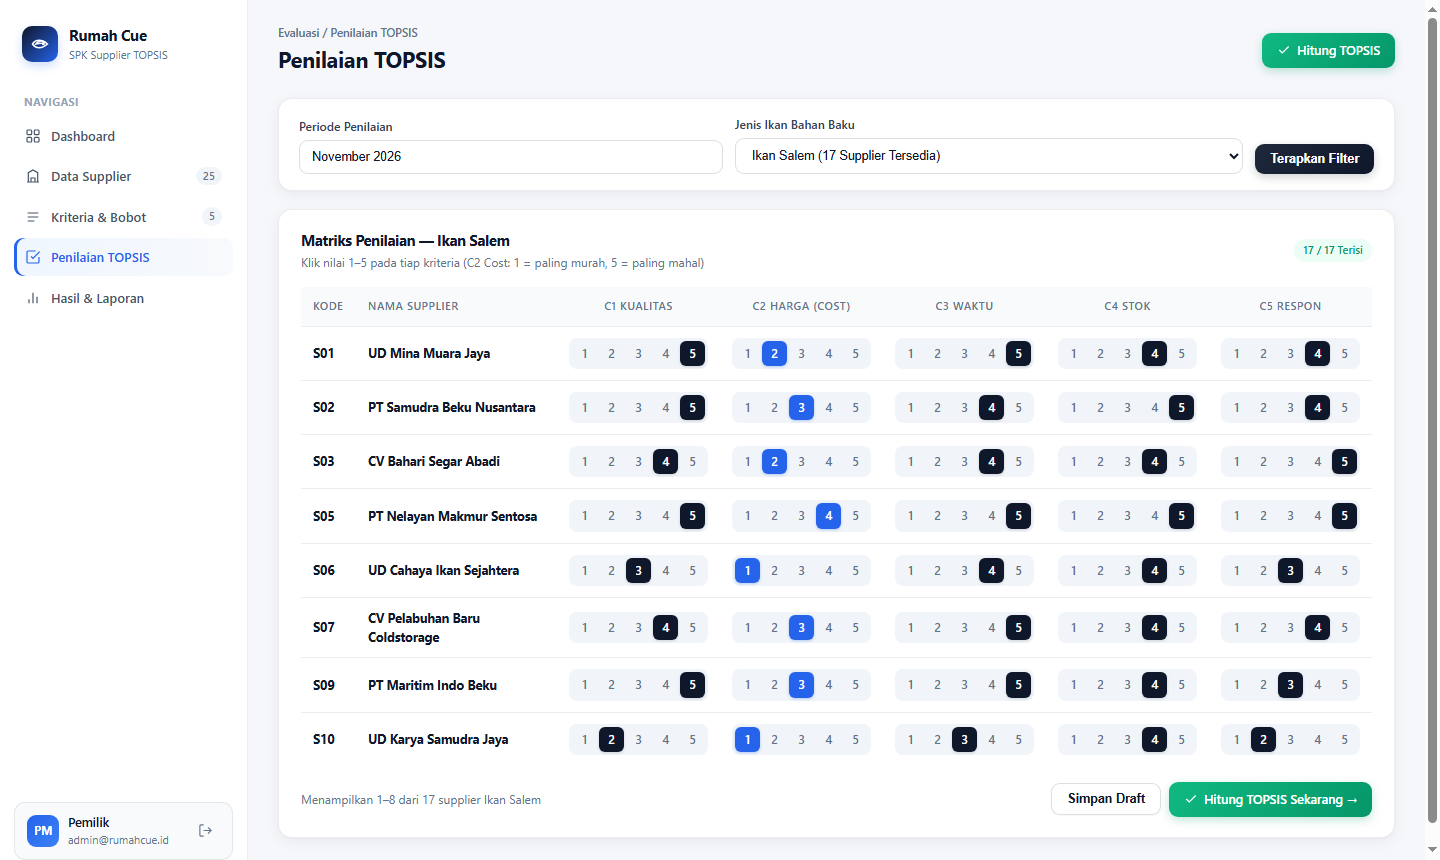
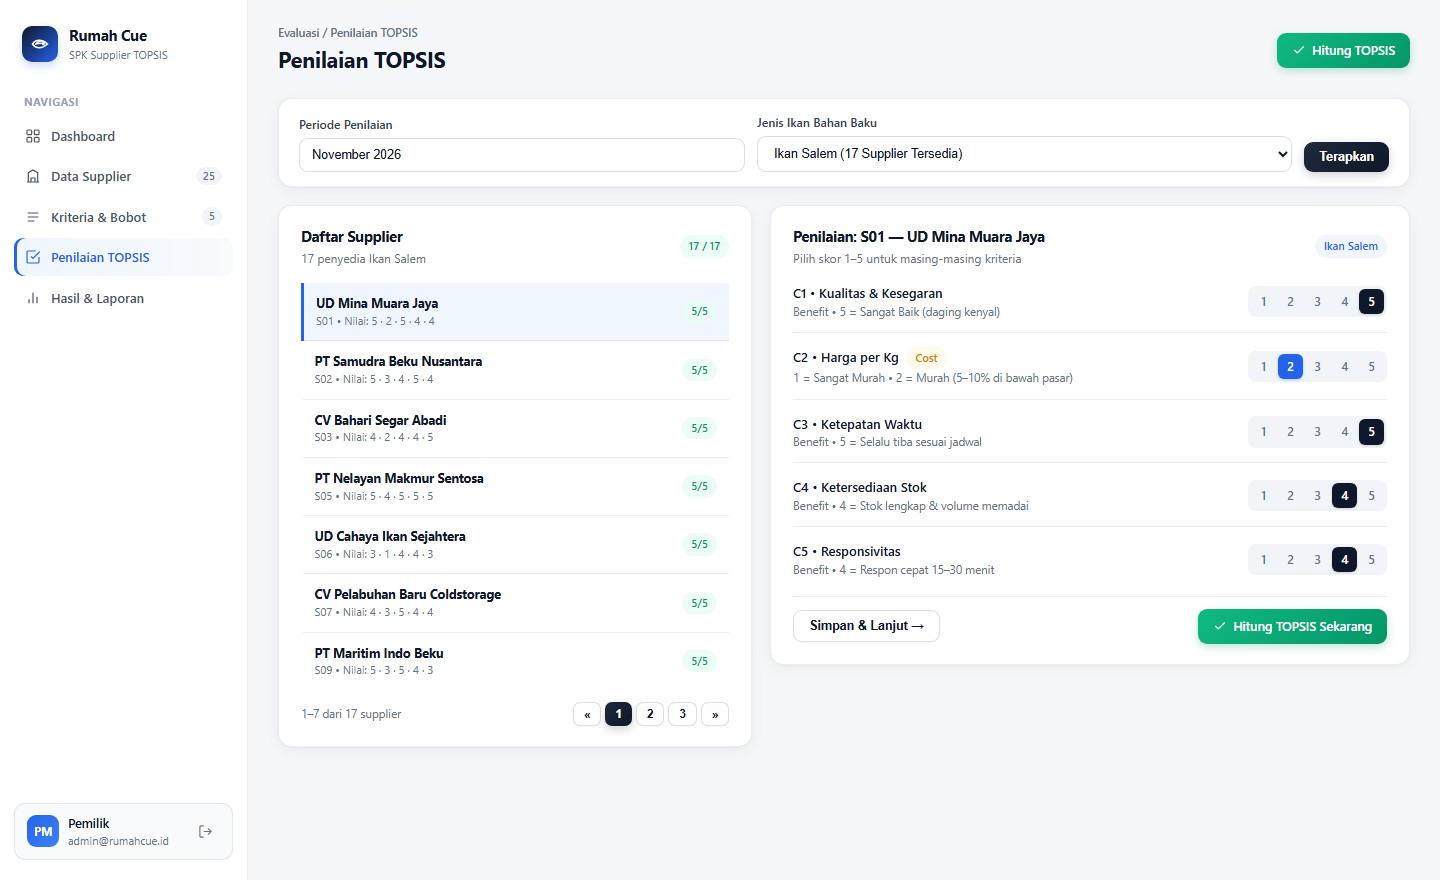
Phase 1: sederhanakan halaman penilaian TOPSIS menjadi layout master-detail modern

diff --git a/wireframes/html/05_penilaian_topsis.html b/wireframes/html/05_penilaian_topsis.html
@@ -288,7 +288,7 @@ tr:last-child td { border-bottom: none; }
       <div class="actions"><a href="06_hasil_laporan.html" class="btn btn-emerald"><svg width="14" height="14" fill="none" stroke="currentColor" stroke-width="2.2" viewBox="0 0 24 24"><path d="M20 6L9 17l-5-5"/></svg> Hitung TOPSIS</a></div>
     </div>
     
-<div class="card" style="padding:16px 20px;">
+<div class="card" style="padding:14px 20px;">
   <div style="display:grid; grid-template-columns:1fr 1.2fr auto; gap:12px; align-items:end;">
     <div>
       <label class="label">Periode Penilaian</label>
@@ -299,99 +299,103 @@ tr:last-child td { border-bottom: none; }
       <select class="select"><option selected>Ikan Salem (17 Supplier Tersedia)</option><option>Ikan Cakalang (15 Supplier)</option><option>Ikan Layang (15 Supplier)</option></select>
     </div>
     <div>
-      <button class="btn btn-dark">Terapkan Filter</button>
+      <button class="btn btn-dark">Terapkan</button>
     </div>
   </div>
 </div>
 
-<div class="card">
-  <div class="card-head">
-    <div><div class="card-title">Matriks Penilaian — Ikan Salem</div><div class="card-sub">Klik nilai 1–5 pada tiap kriteria (C2 Cost: 1 = paling murah, 5 = paling mahal)</div></div>
-    <span class="pill pill-green">17 / 17 Terisi</span>
-  </div>
-  <table>
-    <thead>
-      <tr>
-        <th style="width:55px;">Kode</th>
-        <th>Nama Supplier</th>
-        <th class="tc">C1 Kualitas</th>
-        <th class="tc">C2 Harga (Cost)</th>
-        <th class="tc">C3 Waktu</th>
-        <th class="tc">C4 Stok</th>
-        <th class="tc">C5 Respon</th>
-      </tr>
-    </thead>
-    <tbody><tr>
-      <td><strong>S01</strong></td>
-      <td><strong>UD Mina Muara Jaya</strong></td>
-      <td class="tc"><div class="seg-group"><span class="seg-btn ">1</span><span class="seg-btn ">2</span><span class="seg-btn ">3</span><span class="seg-btn ">4</span><span class="seg-btn on">5</span></div></td>
-      <td class="tc"><div class="seg-group"><span class="seg-btn ">1</span><span class="seg-btn on-blue">2</span><span class="seg-btn ">3</span><span class="seg-btn ">4</span><span class="seg-btn ">5</span></div></td>
-      <td class="tc"><div class="seg-group"><span class="seg-btn ">1</span><span class="seg-btn ">2</span><span class="seg-btn ">3</span><span class="seg-btn ">4</span><span class="seg-btn on">5</span></div></td>
-      <td class="tc"><div class="seg-group"><span class="seg-btn ">1</span><span class="seg-btn ">2</span><span class="seg-btn ">3</span><span class="seg-btn on">4</span><span class="seg-btn ">5</span></div></td>
-      <td class="tc"><div class="seg-group"><span class="seg-btn ">1</span><span class="seg-btn ">2</span><span class="seg-btn ">3</span><span class="seg-btn on">4</span><span class="seg-btn ">5</span></div></td>
-    </tr><tr>
-      <td><strong>S02</strong></td>
-      <td><strong>PT Samudra Beku Nusantara</strong></td>
-      <td class="tc"><div class="seg-group"><span class="seg-btn ">1</span><span class="seg-btn ">2</span><span class="seg-btn ">3</span><span class="seg-btn ">4</span><span class="seg-btn on">5</span></div></td>
-      <td class="tc"><div class="seg-group"><span class="seg-btn ">1</span><span class="seg-btn ">2</span><span class="seg-btn on-blue">3</span><span class="seg-btn ">4</span><span class="seg-btn ">5</span></div></td>
-      <td class="tc"><div class="seg-group"><span class="seg-btn ">1</span><span class="seg-btn ">2</span><span class="seg-btn ">3</span><span class="seg-btn on">4</span><span class="seg-btn ">5</span></div></td>
-      <td class="tc"><div class="seg-group"><span class="seg-btn ">1</span><span class="seg-btn ">2</span><span class="seg-btn ">3</span><span class="seg-btn ">4</span><span class="seg-btn on">5</span></div></td>
-      <td class="tc"><div class="seg-group"><span class="seg-btn ">1</span><span class="seg-btn ">2</span><span class="seg-btn ">3</span><span class="seg-btn on">4</span><span class="seg-btn ">5</span></div></td>
-    </tr><tr>
-      <td><strong>S03</strong></td>
-      <td><strong>CV Bahari Segar Abadi</strong></td>
-      <td class="tc"><div class="seg-group"><span class="seg-btn ">1</span><span class="seg-btn ">2</span><span class="seg-btn ">3</span><span class="seg-btn on">4</span><span class="seg-btn ">5</span></div></td>
-      <td class="tc"><div class="seg-group"><span class="seg-btn ">1</span><span class="seg-btn on-blue">2</span><span class="seg-btn ">3</span><span class="seg-btn ">4</span><span class="seg-btn ">5</span></div></td>
-      <td class="tc"><div class="seg-group"><span class="seg-btn ">1</span><span class="seg-btn ">2</span><span class="seg-btn ">3</span><span class="seg-btn on">4</span><span class="seg-btn ">5</span></div></td>
-      <td class="tc"><div class="seg-group"><span class="seg-btn ">1</span><span class="seg-btn ">2</span><span class="seg-btn ">3</span><span class="seg-btn on">4</span><span class="seg-btn ">5</span></div></td>
-      <td class="tc"><div class="seg-group"><span class="seg-btn ">1</span><span class="seg-btn ">2</span><span class="seg-btn ">3</span><span class="seg-btn ">4</span><span class="seg-btn on">5</span></div></td>
-    </tr><tr>
-      <td><strong>S05</strong></td>
-      <td><strong>PT Nelayan Makmur Sentosa</strong></td>
-      <td class="tc"><div class="seg-group"><span class="seg-btn ">1</span><span class="seg-btn ">2</span><span class="seg-btn ">3</span><span class="seg-btn ">4</span><span class="seg-btn on">5</span></div></td>
-      <td class="tc"><div class="seg-group"><span class="seg-btn ">1</span><span class="seg-btn ">2</span><span class="seg-btn ">3</span><span class="seg-btn on-blue">4</span><span class="seg-btn ">5</span></div></td>
-      <td class="tc"><div class="seg-group"><span class="seg-btn ">1</span><span class="seg-btn ">2</span><span class="seg-btn ">3</span><span class="seg-btn ">4</span><span class="seg-btn on">5</span></div></td>
-      <td class="tc"><div class="seg-group"><span class="seg-btn ">1</span><span class="seg-btn ">2</span><span class="seg-btn ">3</span><span class="seg-btn ">4</span><span class="seg-btn on">5</span></div></td>
-      <td class="tc"><div class="seg-group"><span class="seg-btn ">1</span><span class="seg-btn ">2</span><span class="seg-btn ">3</span><span class="seg-btn ">4</span><span class="seg-btn on">5</span></div></td>
-    </tr><tr>
-      <td><strong>S06</strong></td>
-      <td><strong>UD Cahaya Ikan Sejahtera</strong></td>
-      <td class="tc"><div class="seg-group"><span class="seg-btn ">1</span><span class="seg-btn ">2</span><span class="seg-btn on">3</span><span class="seg-btn ">4</span><span class="seg-btn ">5</span></div></td>
-      <td class="tc"><div class="seg-group"><span class="seg-btn on-blue">1</span><span class="seg-btn ">2</span><span class="seg-btn ">3</span><span class="seg-btn ">4</span><span class="seg-btn ">5</span></div></td>
-      <td class="tc"><div class="seg-group"><span class="seg-btn ">1</span><span class="seg-btn ">2</span><span class="seg-btn ">3</span><span class="seg-btn on">4</span><span class="seg-btn ">5</span></div></td>
-      <td class="tc"><div class="seg-group"><span class="seg-btn ">1</span><span class="seg-btn ">2</span><span class="seg-btn ">3</span><span class="seg-btn on">4</span><span class="seg-btn ">5</span></div></td>
-      <td class="tc"><div class="seg-group"><span class="seg-btn ">1</span><span class="seg-btn ">2</span><span class="seg-btn on">3</span><span class="seg-btn ">4</span><span class="seg-btn ">5</span></div></td>
-    </tr><tr>
-      <td><strong>S07</strong></td>
-      <td><strong>CV Pelabuhan Baru Coldstorage</strong></td>
-      <td class="tc"><div class="seg-group"><span class="seg-btn ">1</span><span class="seg-btn ">2</span><span class="seg-btn ">3</span><span class="seg-btn on">4</span><span class="seg-btn ">5</span></div></td>
-      <td class="tc"><div class="seg-group"><span class="seg-btn ">1</span><span class="seg-btn ">2</span><span class="seg-btn on-blue">3</span><span class="seg-btn ">4</span><span class="seg-btn ">5</span></div></td>
-      <td class="tc"><div class="seg-group"><span class="seg-btn ">1</span><span class="seg-btn ">2</span><span class="seg-btn ">3</span><span class="seg-btn ">4</span><span class="seg-btn on">5</span></div></td>
-      <td class="tc"><div class="seg-group"><span class="seg-btn ">1</span><span class="seg-btn ">2</span><span class="seg-btn ">3</span><span class="seg-btn on">4</span><span class="seg-btn ">5</span></div></td>
-      <td class="tc"><div class="seg-group"><span class="seg-btn ">1</span><span class="seg-btn ">2</span><span class="seg-btn ">3</span><span class="seg-btn on">4</span><span class="seg-btn ">5</span></div></td>
-    </tr><tr>
-      <td><strong>S09</strong></td>
-      <td><strong>PT Maritim Indo Beku</strong></td>
-      <td class="tc"><div class="seg-group"><span class="seg-btn ">1</span><span class="seg-btn ">2</span><span class="seg-btn ">3</span><span class="seg-btn ">4</span><span class="seg-btn on">5</span></div></td>
-      <td class="tc"><div class="seg-group"><span class="seg-btn ">1</span><span class="seg-btn ">2</span><span class="seg-btn on-blue">3</span><span class="seg-btn ">4</span><span class="seg-btn ">5</span></div></td>
-      <td class="tc"><div class="seg-group"><span class="seg-btn ">1</span><span class="seg-btn ">2</span><span class="seg-btn ">3</span><span class="seg-btn ">4</span><span class="seg-btn on">5</span></div></td>
-      <td class="tc"><div class="seg-group"><span class="seg-btn ">1</span><span class="seg-btn ">2</span><span class="seg-btn ">3</span><span class="seg-btn on">4</span><span class="seg-btn ">5</span></div></td>
-      <td class="tc"><div class="seg-group"><span class="seg-btn ">1</span><span class="seg-btn ">2</span><span class="seg-btn on">3</span><span class="seg-btn ">4</span><span class="seg-btn ">5</span></div></td>
-    </tr><tr>
-      <td><strong>S10</strong></td>
-      <td><strong>UD Karya Samudra Jaya</strong></td>
-      <td class="tc"><div class="seg-group"><span class="seg-btn ">1</span><span class="seg-btn on">2</span><span class="seg-btn ">3</span><span class="seg-btn ">4</span><span class="seg-btn ">5</span></div></td>
-      <td class="tc"><div class="seg-group"><span class="seg-btn on-blue">1</span><span class="seg-btn ">2</span><span class="seg-btn ">3</span><span class="seg-btn ">4</span><span class="seg-btn ">5</span></div></td>
-      <td class="tc"><div class="seg-group"><span class="seg-btn ">1</span><span class="seg-btn ">2</span><span class="seg-btn on">3</span><span class="seg-btn ">4</span><span class="seg-btn ">5</span></div></td>
-      <td class="tc"><div class="seg-group"><span class="seg-btn ">1</span><span class="seg-btn ">2</span><span class="seg-btn ">3</span><span class="seg-btn on">4</span><span class="seg-btn ">5</span></div></td>
-      <td class="tc"><div class="seg-group"><span class="seg-btn ">1</span><span class="seg-btn on">2</span><span class="seg-btn ">3</span><span class="seg-btn ">4</span><span class="seg-btn ">5</span></div></td>
+<div class="grid-split" style="grid-template-columns: 1fr 1.35fr;">
+  <div class="card">
+    <div class="card-head">
+      <div><div class="card-title">Daftar Supplier</div><div class="card-sub">17 penyedia Ikan Salem</div></div>
+      <span class="pill pill-green">17 / 17</span>
+    </div>
+    <table>
+      <tbody><tr style="background:#eff6ff; border-left:3px solid var(--primary);">
+      <td>
+        <div style="font-weight:700; font-size:12.5px;">UD Mina Muara Jaya</div>
+        <div style="font-size:11px; color:var(--muted);">S01 &bull; Nilai: 5 · 2 · 5 · 4 · 4</div>
+      </td>
+      <td class="tr"><span class="pill pill-green">5/5</span></td>
+    </tr><tr >
+      <td>
+        <div style="font-weight:700; font-size:12.5px;">PT Samudra Beku Nusantara</div>
+        <div style="font-size:11px; color:var(--muted);">S02 &bull; Nilai: 5 · 3 · 4 · 5 · 4</div>
+      </td>
+      <td class="tr"><span class="pill pill-green">5/5</span></td>
+    </tr><tr >
+      <td>
+        <div style="font-weight:700; font-size:12.5px;">CV Bahari Segar Abadi</div>
+        <div style="font-size:11px; color:var(--muted);">S03 &bull; Nilai: 4 · 2 · 4 · 4 · 5</div>
+      </td>
+      <td class="tr"><span class="pill pill-green">5/5</span></td>
+    </tr><tr >
+      <td>
+        <div style="font-weight:700; font-size:12.5px;">PT Nelayan Makmur Sentosa</div>
+        <div style="font-size:11px; color:var(--muted);">S05 &bull; Nilai: 5 · 4 · 5 · 5 · 5</div>
+      </td>
+      <td class="tr"><span class="pill pill-green">5/5</span></td>
+    </tr><tr >
+      <td>
+        <div style="font-weight:700; font-size:12.5px;">UD Cahaya Ikan Sejahtera</div>
+        <div style="font-size:11px; color:var(--muted);">S06 &bull; Nilai: 3 · 1 · 4 · 4 · 3</div>
+      </td>
+      <td class="tr"><span class="pill pill-green">5/5</span></td>
+    </tr><tr >
+      <td>
+        <div style="font-weight:700; font-size:12.5px;">CV Pelabuhan Baru Coldstorage</div>
+        <div style="font-size:11px; color:var(--muted);">S07 &bull; Nilai: 4 · 3 · 5 · 4 · 4</div>
+      </td>
+      <td class="tr"><span class="pill pill-green">5/5</span></td>
+    </tr><tr >
+      <td>
+        <div style="font-weight:700; font-size:12.5px;">PT Maritim Indo Beku</div>
+        <div style="font-size:11px; color:var(--muted);">S09 &bull; Nilai: 5 · 3 · 5 · 4 · 3</div>
+      </td>
+      <td class="tr"><span class="pill pill-green">5/5</span></td>
     </tr></tbody>
-  </table>
-  <div style="display:flex; justify-content:space-between; align-items:center; margin-top:16px;">
-    <span style="font-size:12px; color:var(--muted);">Menampilkan 1–8 dari 17 supplier Ikan Salem</span>
-    <div class="actions">
-      <button class="btn">Simpan Draft</button>
-      <a href="06_hasil_laporan.html" class="btn btn-emerald"><svg width="14" height="14" fill="none" stroke="currentColor" stroke-width="2.2" viewBox="0 0 24 24"><path d="M20 6L9 17l-5-5"/></svg> Hitung TOPSIS Sekarang &rarr;</a>
+    </table>
+    <div style="display:flex; justify-content:space-between; align-items:center; margin-top:12px; font-size:11.5px; color:var(--muted);">
+      <span>1–7 dari 17 supplier</span>
+      <div style="display:flex; gap:4px;"><button class="btn btn-sm">&laquo;</button><button class="btn btn-dark btn-sm">1</button><button class="btn btn-sm">2</button><button class="btn btn-sm">3</button><button class="btn btn-sm">&raquo;</button></div>
+    </div>
+  </div>
+
+  <div class="card">
+    <div class="card-head">
+      <div>
+        <div class="card-title">Penilaian: S01 — UD Mina Muara Jaya</div>
+        <div class="card-sub">Pilih skor 1–5 untuk masing-masing kriteria</div>
+      </div>
+      <span class="pill pill-blue">Ikan Salem</span>
+    </div>
+
+    <div style="display:flex; flex-direction:column; gap:14px; margin-bottom:18px;">
+      <div style="display:flex; justify-content:space-between; align-items:center; padding-bottom:12px; border-bottom:1px solid var(--border);">
+        <div><div style="font-weight:600;">C1 &bull; Kualitas &amp; Kesegaran</div><div style="font-size:11.5px; color:var(--muted);">Benefit &bull; 5 = Sangat Baik (daging kenyal)</div></div>
+        <div class="seg-group"><span class="seg-btn ">1</span><span class="seg-btn ">2</span><span class="seg-btn ">3</span><span class="seg-btn ">4</span><span class="seg-btn on">5</span></div>
+      </div>
+      <div style="display:flex; justify-content:space-between; align-items:center; padding-bottom:12px; border-bottom:1px solid var(--border);">
+        <div><div style="font-weight:600;">C2 &bull; Harga per Kg <span class="pill pill-amber" style="margin-left:4px;">Cost</span></div><div style="font-size:11.5px; color:var(--muted);">1 = Sangat Murah &bull; 2 = Murah (5–10% di bawah pasar)</div></div>
+        <div class="seg-group"><span class="seg-btn ">1</span><span class="seg-btn on-blue">2</span><span class="seg-btn ">3</span><span class="seg-btn ">4</span><span class="seg-btn ">5</span></div>
+      </div>
+      <div style="display:flex; justify-content:space-between; align-items:center; padding-bottom:12px; border-bottom:1px solid var(--border);">
+        <div><div style="font-weight:600;">C3 &bull; Ketepatan Waktu</div><div style="font-size:11.5px; color:var(--muted);">Benefit &bull; 5 = Selalu tiba sesuai jadwal</div></div>
+        <div class="seg-group"><span class="seg-btn ">1</span><span class="seg-btn ">2</span><span class="seg-btn ">3</span><span class="seg-btn ">4</span><span class="seg-btn on">5</span></div>
+      </div>
+      <div style="display:flex; justify-content:space-between; align-items:center; padding-bottom:12px; border-bottom:1px solid var(--border);">
+        <div><div style="font-weight:600;">C4 &bull; Ketersediaan Stok</div><div style="font-size:11.5px; color:var(--muted);">Benefit &bull; 4 = Stok lengkap &amp; volume memadai</div></div>
+        <div class="seg-group"><span class="seg-btn ">1</span><span class="seg-btn ">2</span><span class="seg-btn ">3</span><span class="seg-btn on">4</span><span class="seg-btn ">5</span></div>
+      </div>
+      <div style="display:flex; justify-content:space-between; align-items:center;">
+        <div><div style="font-weight:600;">C5 &bull; Responsivitas</div><div style="font-size:11.5px; color:var(--muted);">Benefit &bull; 4 = Respon cepat 15–30 menit</div></div>
+        <div class="seg-group"><span class="seg-btn ">1</span><span class="seg-btn ">2</span><span class="seg-btn ">3</span><span class="seg-btn on">4</span><span class="seg-btn ">5</span></div>
+      </div>
+    </div>
+
+    <div style="display:flex; justify-content:space-between; align-items:center; padding-top:12px; border-top:1px solid var(--border);">
+      <button class="btn">Simpan &amp; Lanjut &rarr;</button>
+      <a href="06_hasil_laporan.html" class="btn btn-emerald"><svg width="14" height="14" fill="none" stroke="currentColor" stroke-width="2.2" viewBox="0 0 24 24"><path d="M20 6L9 17l-5-5"/></svg> Hitung TOPSIS Sekarang</a>
     </div>
   </div>
 </div>
